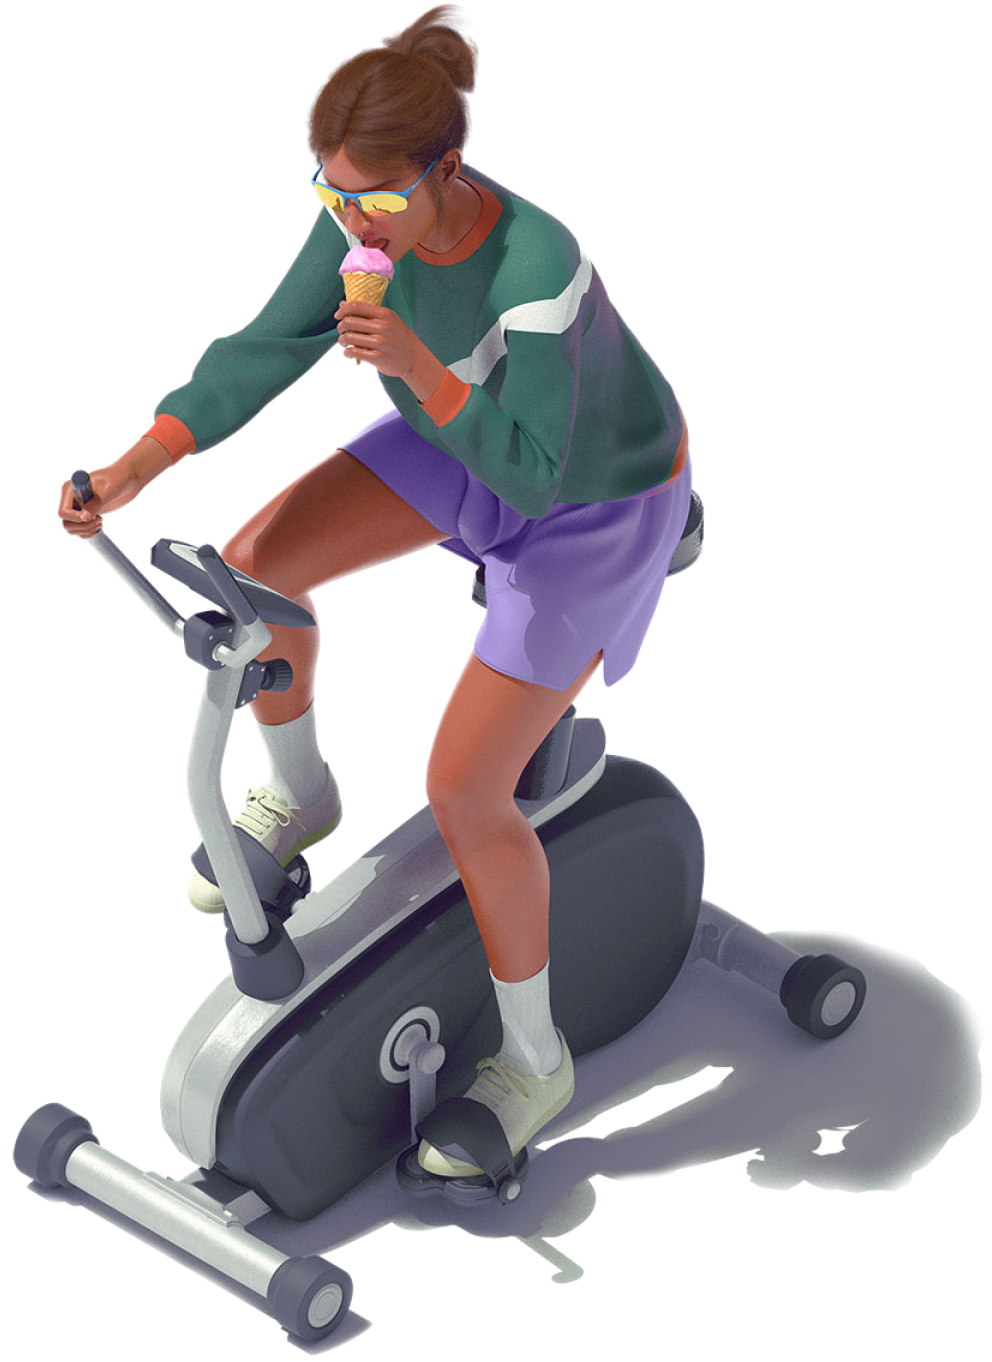
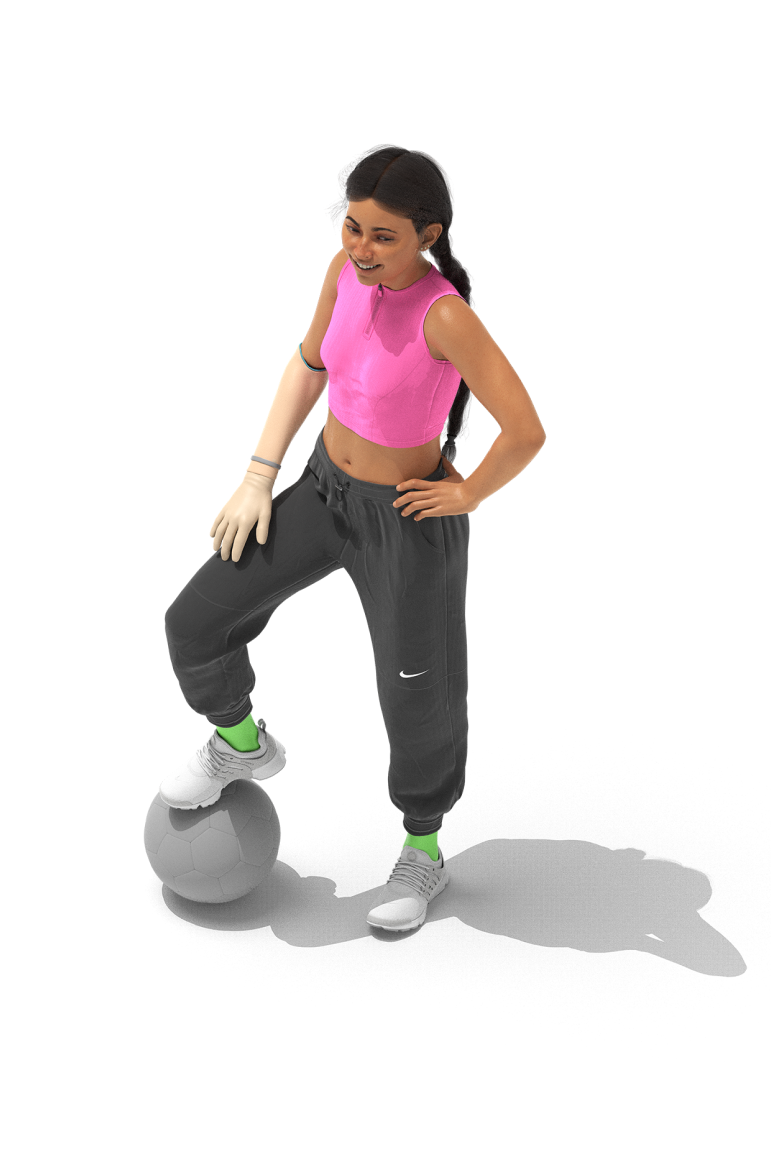
update

diff --git a/components/intro/bubble.js b/components/intro/bubble.js
@@ -1,5 +1,6 @@
 import { useEffect, useState, useRef } from 'react'
 import { motion, useAnimationControls } from 'framer-motion'
+import { gsap } from 'gsap'
 import styled from 'styled-components'
 
 
@@ -15,25 +16,41 @@ const Container = styled(motion.div)`
 `;
 
 let MainBubble = styled(motion.div)`
+    position: relative;
     display: flex;
     align-items: center;
     justify-content: center;
     background: rgba(255, 255, 255, 0.6);
     backdrop-filter: blur(10px);
     border-radius: 20px;
+    overflow: hidden;
+
+    @keyframes hover {
+        from {
+            transform: translateY(0);
+        }
+
+        to {
+            transform: translateY(-10%);
+        }
+    }
+
+    animation: hover 2s ease-in-out alternate infinite;
+
     width: 90px;
     height: 75px;
-    transition: backdropFilter 0s !important;
 
     img {
         width: 80%;
     }
+
 
     @media(max-width: 989px) {
         width: 70px;
         height: 50px;
     }
 `
+
 
 let BubbleOne = styled(motion.div)`
     position: absolute;
@@ -76,31 +93,57 @@ let mainBubbleVariants = {
         }
     },
     'hide': {
+        transition: {
+            staggerChildren: 0.1
+        }
     }
 }
 
 let bubbleVariants = {
     'show': {
         opacity: 1,
-        y: 0
-        // transition: {
-        // }
+        y: 0,
+        transition: {
+            opacity: {
+                duration: 0.3
+            },
+            y: {
+                duration: 2,
+                type: 'spring',
+                bounce: 0.6
+            }
+        }
     },
     'hide': {
         opacity: 0,
-        y: 10
+        y: 10,
+        transition: {
+            duration: 0.6,
+            type: 'spring'
+        }
     }
 }
 
 const Component = ({ data, index, bubbles, bubblesDisplayArray }) => {
 
     let containerRef = useRef();
+    let animationRef = useRef();
+    let mainBubbleRef = useRef();
+
+    useEffect(() => {
+        // animationRef.current = gsap.fromTo(mainBubbleRef.current,{top: 0}, { top: -30 , duration: 1, yoyo: true, ease: "power3.inOut", repeat: -1});
+        // if(bubblesDisplayArray[index].show) {
+        //     animationRef.current = gsap.fromTo(mainBubbleRef.current,{top: 0}, { top: -3 , duration: 1, yoyo: true, ease: "power3.inOut", repeat: -1});
+        // } else {
+        //     animationRef.current?.kill()
+        // }
+    }, [])
 
     return (          
         <Container initial='hide' variants={mainBubbleVariants} animate={bubblesDisplayArray[index].show ? 'show' : 'hide'} ref={containerRef} data={bubblesDisplayArray[index]}>  
             <BubbleOne variants={bubbleVariants} flip={bubblesDisplayArray[index].desktop.flip} />
             <BubbleTwo variants={bubbleVariants} flip={bubblesDisplayArray[index].desktop.flip} /> 
-            <MainBubble variants={bubbleVariants}>
+            <MainBubble ref={mainBubbleRef} variants={bubbleVariants}>
                 <img src={bubblesDisplayArray[index].src} />
             </MainBubble>
         </Container>

diff --git a/components/slices/avatar-speech/index.js b/components/slices/avatar-speech/index.js
@@ -12,7 +12,6 @@ const Container = styled.div`
     z-index: 1;
 
     > svg {
-        // height: 0;
         position: absolute;
     }
 `
@@ -22,13 +21,13 @@ const ImageWrapper = styled.div`
     z-index: 999;
 
     img {
-        width: 30vw;
+        width: 32.5vw;
         transform: rotateY(180deg);
     }
 
     @media(max-width: 989px) {
-        width: 70%;
-        margin-left: -20%;
+        width: 100%;
+        margin-left: -30%;
         
         img {
             width: 100%;
@@ -39,21 +38,21 @@ const ImageWrapper = styled.div`
 const Bubble = styled(motion.div)`
     position: absolute;
     height: fit-content;
-    left: 30%;
-    bottom: 95%;
+    left: 37%;
+    bottom: 90%;
     margin-right: 15px;
     
 
     @media(min-width: 990px) {
         width: 80%;
         left: auto;
-        bottom: 90%;
-        right: -55%;
+        bottom: 87%;
+        right: -46%;
         margin-right: auto;
     }
 
     @media(max-width: 989px) {
-        min-width: calc(70% - 15px);
+        min-width: calc(53% - 15px);
     }
 `
 

diff --git a/components/slices/complete/index.js b/components/slices/complete/index.js
@@ -11,7 +11,7 @@ const Container = styled.div`
     // overflow: hidden;
 
     @media(max-width: 989px) {
-        margin: 180px 0 0 0;
+        margin: 120px 0 0 0;
     }
 `
 
@@ -41,6 +41,13 @@ const RowTwo = styled.div`
     }
 `
 
+const RewardWrapperMobile = styled.div`
+    margin-top: 80px;
+    @media(min-width: 990px) {
+        display: none;
+    }
+`
+
 
 
 export default function Component({ data }) {
@@ -54,6 +61,9 @@ export default function Component({ data }) {
             {
                 unlocked ?
                 <RowTwo>
+                    <RewardWrapperMobile>
+                        <Reward data={data} />
+                    </RewardWrapperMobile>
                     <More data={data} />
                     <Next data={data} />
                 </RowTwo>

diff --git a/components/slices/praise/index.js b/components/slices/praise/index.js
@@ -73,6 +73,7 @@ const RewardWrapper = styled(motion.div)`
     @media(max-width: 989px) {
         padding-top: 0;
         margin: calc(var(--margin) * 4) var(--margin) 0 var(--margin);
+        display: none;
     }
 
     @media(min-width: 990px) {
@@ -200,7 +201,7 @@ export default function Component({ data, unlock }) {
         initTextEffect();
 
         // Arrow Animation
-        gsap.fromTo(arrowRef.current,{y: 0}, { y: -5 , duration: 0.5, yoyo: true, ease: "power2.inOut", repeat: -1});
+        gsap.fromTo(arrowRef.current,{x: '-50%', y: 0}, {x: '-50%', y: -5 , duration: 0.5, yoyo: true, ease: "power2.inOut", repeat: -1});
     }, [])
 
     useEffect(() => {

diff --git a/pages/active-activist.js b/pages/active-activist.js
@@ -8,7 +8,8 @@ import Footer from '../components/footer'
 import Layout from '../components/layout'
 import Slices from '../components/slices'
 
-
+// Images
+import avatarImage from '../public/images/avatars/character-intro/theo.png'
 
 const Container = styled.div``
 
@@ -16,7 +17,7 @@ let data = {
     title: 'Active Activist',
     name: 'Theo',
     role: 'Active Activist',
-    avatar: '/images/avatars/character-intro/theo.png',
+    avatar: avatarImage,
     avatarMiniature: '/images/avatars/miniature/theo.png',
     colourOne: '#A2D8EF',
     colourTwo: '#F05822',

diff --git a/components/intro/index.js b/components/intro/index.js
@@ -399,7 +399,7 @@ const Component = () => {
     }
 
     useEffect(() => {
-        gsap.fromTo(arrowRef.current,{y: 0}, { y: -5 , duration: 0.5, yoyo: true, ease: "power2.inOut", repeat: -1});
+        gsap.fromTo(arrowRef.current,{x: '-50%', y: 0}, {x: '-50%', y: -5 , duration: 0.5, yoyo: true, ease: "power2.inOut", repeat: -1});
 
         slideOneRef.current.addEventListener("click", () => {
             triggerSlide("down");

diff --git a/components/slices/question.js b/components/slices/question.js
@@ -44,7 +44,8 @@ let variants = {
 export default function Component({ item, data }) {
     let cardRef = useRef()
     let isInView = useInView(cardRef, {
-        margin: "0px 0px -200px 0px"
+        margin: "0px 0px -200px 0px",
+        once: true
     })
 
 

diff --git a/pages/_app.js b/pages/_app.js
@@ -150,6 +150,12 @@ function MyApp({ Component, pageProps, router }) {
       }
     }
   }
+
+  useEffect(() => {
+    setTimeout(() => {
+      window.scrollTo(0, 0);
+    }, 500)
+  }, [router.asPath])
   
 
   return (

diff --git a/components/button.js b/components/button.js
@@ -19,7 +19,8 @@ const Container = styled(motion.button)`
 
     @media(max-width: 989px) {
         padding: 10px 30px;
-        max-width: none;
+        max-width: 315px;
+        margin: 0 auto;
     }
 `;
 
